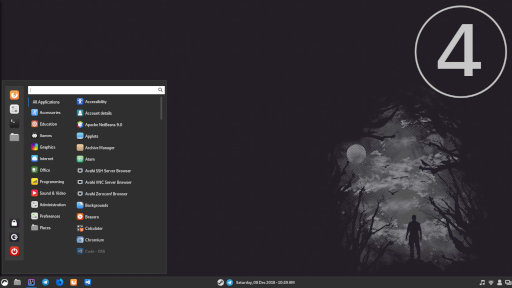
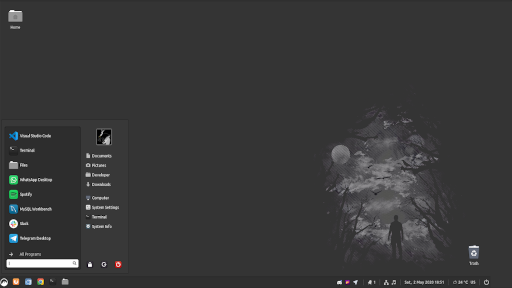
Changing Changelog and thumbnail

diff --git a/README.md b/README.md
@@ -47,3 +47,7 @@ You modify the last value between 0 (full transparency) to 1 (full visibility)
 **What is the GTK theme based on?**
 
 It is based on the Linux Mint theme, only the colors, tooltip and the menu were modified.
+
+**Where can I get the wallpaper?**
+
+[Click here to download wallpaper](https://mocah.org/4536956-night-moon-dark-minimalism-digital-art.html)

diff --git a/CHANGELOG.md b/CHANGELOG.md
@@ -1,3 +1,10 @@
+### Update 3.0.0
+* Support CSS CinnVIIStarkMenu Applet
+* Border most Highlighted
+* Round the edges of the container
+* Change the status style of an application on Grouped window list Apple
+* Update theme GTK
+
 ### Upadate 1.6
 * Compatible with cinnamon 4.
 * Added the new menu icon.
